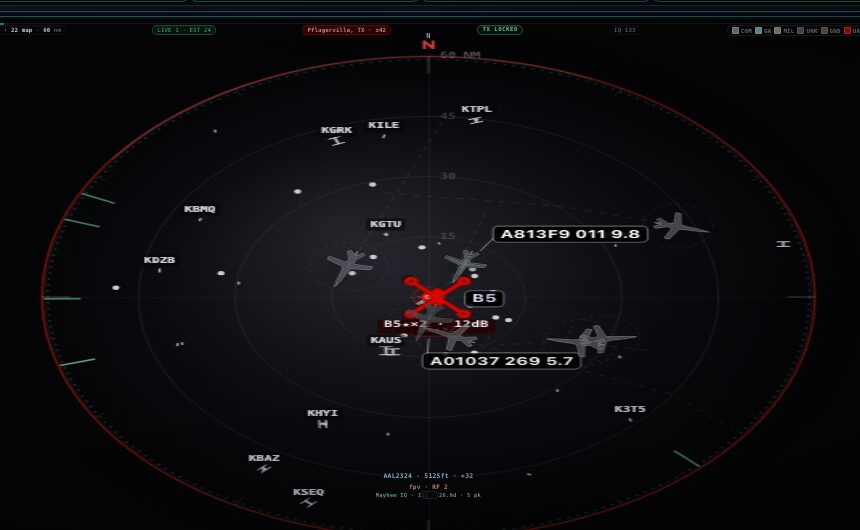
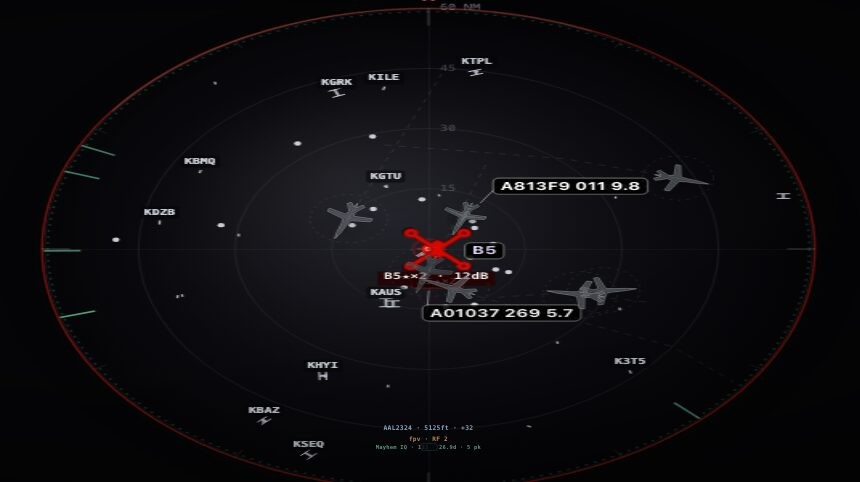
Strip pad codes from the public plate.
Dashboard stills are the map. No auto_tx, dual-gate, or TX LOCKED on darksky.systems.

diff --git a/software.html b/software.html
@@ -9,14 +9,14 @@
   <meta name="description" content="CyberRaptor fielded today. RF monitoring, Remote ID, picture of the ground. CyberReaper gated. Dark Sky Systems LLC." />
   <link rel="canonical" href="https://darksky.systems/software.html" />
   <meta property="og:title" content="Software — Dark Sky Systems" />
-  <meta property="og:description" content="Live console. Listening. RF LIVE. TX LOCKED. Fielded today." />
+  <meta property="og:description" content="Live console. Listening. RF LIVE. Fielded today." />
   <meta property="og:url" content="https://darksky.systems/software.html" />
   <meta property="og:image" content="https://darksky.systems/assets/console.jpg" />
   <meta property="og:type" content="website" />
   <link rel="preconnect" href="https://fonts.googleapis.com" />
   <link rel="preconnect" href="https://fonts.gstatic.com" crossorigin />
   <link href="https://fonts.googleapis.com/css2?family=Cormorant+Garamond:ital,wght@0,500;0,600;1,500&family=Outfit:wght@300;400;500&display=swap" rel="stylesheet" />
-  <link rel="stylesheet" href="style.css?v=57" />
+  <link rel="stylesheet" href="style.css?v=59" />
 </head>
 <!-- Dark Sky Systems LLC -->
 <body>
@@ -37,14 +37,14 @@
       <p class="eyebrow">Software</p>
       <h1>RF monitoring. Remote ID. Picture of the ground.</h1>
       <p class="lede">Named place and time. Fielded today. More layers in development.</p>
-      <p class="status"><span>Fielded today</span><span>RADIO Listening</span><span>RF LIVE</span><span>TX LOCKED</span></p>
+      <p class="status"><span>Fielded today</span><span>RADIO Listening</span><span>RF LIVE</span></p>
       <div class="hero-actions">
         <a class="cta" href="index.html#request">Request software</a>
         <a class="cta cta-ghost" href="#reaper">Request a briefing</a>
       </div>
     </div>
     <figure class="console-bleed">
-      <img src="assets/console.jpg?v=56" alt="Live listen console. Map, spectrum, TX LOCKED." width="1440" height="760" />
+      <img src="assets/console.jpg?v=60" alt="Live listen console. Map of the named area." width="940" height="480" />
     </figure>
   </section>
 
@@ -52,14 +52,13 @@
     <div class="wrap">
       <h2>RF monitoring</h2>
       <p class="lead">Receive-only radio picture of a named place and time. Energy in the bands we are watching is logged. Quiet air is a valid hour.</p>
-      <p>RID-only maps miss aircraft that do not broadcast an ID. Those aircraft can still radiate on a control or analog FPV link. This layer is how that energy is recorded. Presence and band. Not a tail number. Not a legal intercept order. Not direction-finding. Radio-only contacts have no map pin. TX stays gated.</p>
+      <p>RID-only maps miss aircraft that do not broadcast an ID. Those aircraft can still radiate on a control or analog FPV link. This layer is how that energy is recorded. Presence and band. Not a tail number. Not a legal intercept order. Not direction-finding. Radio-only contacts have no map pin.</p>
       <table class="spec">
         <tr><th>RID receiver</th><td>ESP32-S3. Bluetooth LE 1M, coded S8, extended ads. Cooperative Remote ID listen.</td></tr>
         <tr><th>RF</th><td>Spectrum on the bands the kit covers that job. Common air links: 2.4 GHz and 5.8 GHz. This frame: 5800–5810 MHz, 10 MHz span.</td></tr>
         <tr><th>Air</th><td>ADS-B 1090 MHz. Commercial, general aviation, and military traffic when those aircraft broadcast. Same map as the UAS picture.</td></tr>
         <tr><th>Airports</th><td>OurAirports public-domain overlay. Large, regional, municipal, heliport, and military fields in the pack. Runway centerlines. Map display. Not DF. Not ATC clearance.</td></tr>
         <tr><th>Log</th><td>Time, band, energy. Repeat hits stay. Dead feeds drop. Quiet hour is valid data.</td></tr>
-        <tr><th>Gate</th><td>TX LOCKED. Dual-gate. auto_tx=OFF.</td></tr>
       </table>
       <figure class="bleed tight">
         <img src="assets/console-spectrum.jpg" alt="Live spectrum. Listening. Time, band, and energy." width="1440" height="140" loading="lazy" />
@@ -92,7 +91,7 @@
         </article>
         <article class="card plan">
           <h3>ESP32-S3</h3>
-          <p>On-kit RID listener. Bluetooth LE 1M, coded S8, extended advertisements. Slot B listen. BLE ads counted. Apple folded counted. RID none is a valid state.</p>
+          <p>On-kit RID listener. Bluetooth LE 1M, coded S8, extended advertisements. BLE ads counted. Apple folded counted. RID none is a valid state.</p>
         </article>
         <article class="card plan">
           <h3>Signal recognition</h3>
@@ -111,7 +110,7 @@
           <h3>With Remote ID</h3>
           <p>When an aircraft is broadcasting an ID, it is on the map. Green is on your list. Red is broadcasting off-list.</p>
           <figure class="bleed tight">
-            <img src="assets/console-map.jpg" alt="Live tactical map. Pflugerville. Aircraft tracks. Radio contacts B5." width="860" height="530" loading="lazy" />
+            <img src="assets/console-map.jpg?v=60" alt="Live tactical map. Aircraft tracks. Radio contacts." width="860" height="482" loading="lazy" />
           </figure>
         </article>
         <article>
@@ -136,11 +135,8 @@
     <div class="wrap">
       <header class="sec-head">
         <h2>CyberRaptor</h2>
-        <p>Listen software. Fielded today as Remote ID plus RF monitoring when that kit is on the job. Console shows Listening, RF LIVE, AIR UP. More sensors in development: radar, acoustic, and tighter fusion.</p>
+        <p>Listen software. Fielded today as Remote ID plus RF monitoring when that kit is on the job. Console shows Listening and RF LIVE. More sensors in development: radar, acoustic, and tighter fusion.</p>
       </header>
-      <figure class="bleed tight">
-        <img src="assets/console-listen.jpg" alt="Listen panel. ESP32-S3. RID Listening. BLE. Analog FPV. Slot B." width="500" height="620" loading="lazy" />
-      </figure>
       <div class="grid plans-grid">
         <article class="card plan">
           <h3>Listen</h3>
@@ -162,11 +158,7 @@
   <section class="work" id="reaper">
     <div class="wrap">
       <h2>CyberReaper</h2>
-      <p class="lead">Operator platform for trained crews. Dual control. Audit. Same RF monitoring picture. Activate CyberReaper from this console when authorized. TX LOCKED until dual-gate clears.</p>
-      <figure class="bleed tight" style="max-width:22rem">
-        <img src="assets/console-reaper.jpg" alt="Activate CyberReaper. TX LOCKED. Dual-gate. auto_tx=OFF." width="340" height="100" loading="lazy" />
-      </figure>
-      <p>CyberReaper is in the field and in development. It is not listed as a public checkout on this site. Access is gated. Request a briefing if you are a qualified buyer.</p>
+      <p class="lead">CyberReaper in development. Same RF monitoring picture. Access is gated. Request a briefing if you are a qualified buyer.</p>
       <p class="plans-cta" id="request-briefing"><a class="cta" href="index.html#request">Request a briefing</a></p>
     </div>
   </section>

diff --git a/index.html b/index.html
@@ -81,7 +81,7 @@
           <p>Stills, video, thermal. Same window.</p>
         </a>
         <a class="card" href="software.html">
-          <img src="assets/console-map.jpg" alt="Live listen map. RADIO Listening. RF LIVE." width="860" height="530" loading="lazy" />
+          <img src="assets/console-map.jpg?v=60" alt="Live listen map. RADIO Listening. RF LIVE." width="860" height="482" loading="lazy" />
           <h3>Software</h3>
           <p>Listen software. Remote ID plus RF monitoring when that kit is on the job. Green is on your list. Red is broadcasting off-list.</p>
         </a>
@@ -158,14 +158,14 @@
       <p class="lead">Fielded listen console. Map, spectrum, RID, and RF on one glass. Named place and time.</p>
       <p>RID-only tools only see aircraft that broadcast an ID. A drone can still radiate on a video or control link with RID off. This console logs that energy: time, band, and level. Radio-only contacts have no map pin and are not direction-finding. Quiet air is recorded. Dead feeds drop. Tracks are not invented.</p>
       <p>Two independent layers. Remote ID: ESP32-S3, Bluetooth LE 1M / coded S8 / extended ads. RF: spectrum on the bands the kit covers that job — commonly 2.4 GHz and 5.8 GHz (this frame 5800–5810 MHz). Analog FPV energy on 5.8 GHz. ADS-B 1090 MHz for manned traffic: commercial, general aviation, and military when those aircraft broadcast. Airports and runways from the OurAirports public-domain pack (large, regional, municipal, heliport, military fields). Map overlay. Not DF. Not ATC. Fusion only when RID and RF are honestly running. Green is on your list. Red is broadcasting off-list. This hour: RF LIVE, RID ABSENT. Both states are valid.</p>
-      <p>TX LOCKED. Dual-gate. auto_tx=OFF. CyberReaper in development.</p>
+      <p>CyberReaper in development.</p>
       <p class="hero-actions" style="margin-top:1.25rem">
         <a class="cta" href="software.html">Software</a>
         <a class="cta cta-ghost" href="#request">Request a briefing</a>
       </p>
     </div>
     <figure class="console-bleed">
-      <img src="assets/console.jpg?v=56" alt="Live listen console. Map, spectrum, TX LOCKED." width="1440" height="760" loading="lazy" />
+      <img src="assets/console.jpg?v=60" alt="Live listen console. Map of the named area." width="940" height="480" loading="lazy" />
     </figure>
     <figure class="bleed tight wrap" style="max-width:72rem;margin-inline:auto;padding-inline:clamp(1.25rem,4.5vw,2.5rem)">
       <img src="assets/console-spectrum.jpg" alt="Live spectrum waterfall. Listening. Time, band, energy." width="1440" height="140" loading="lazy" />
